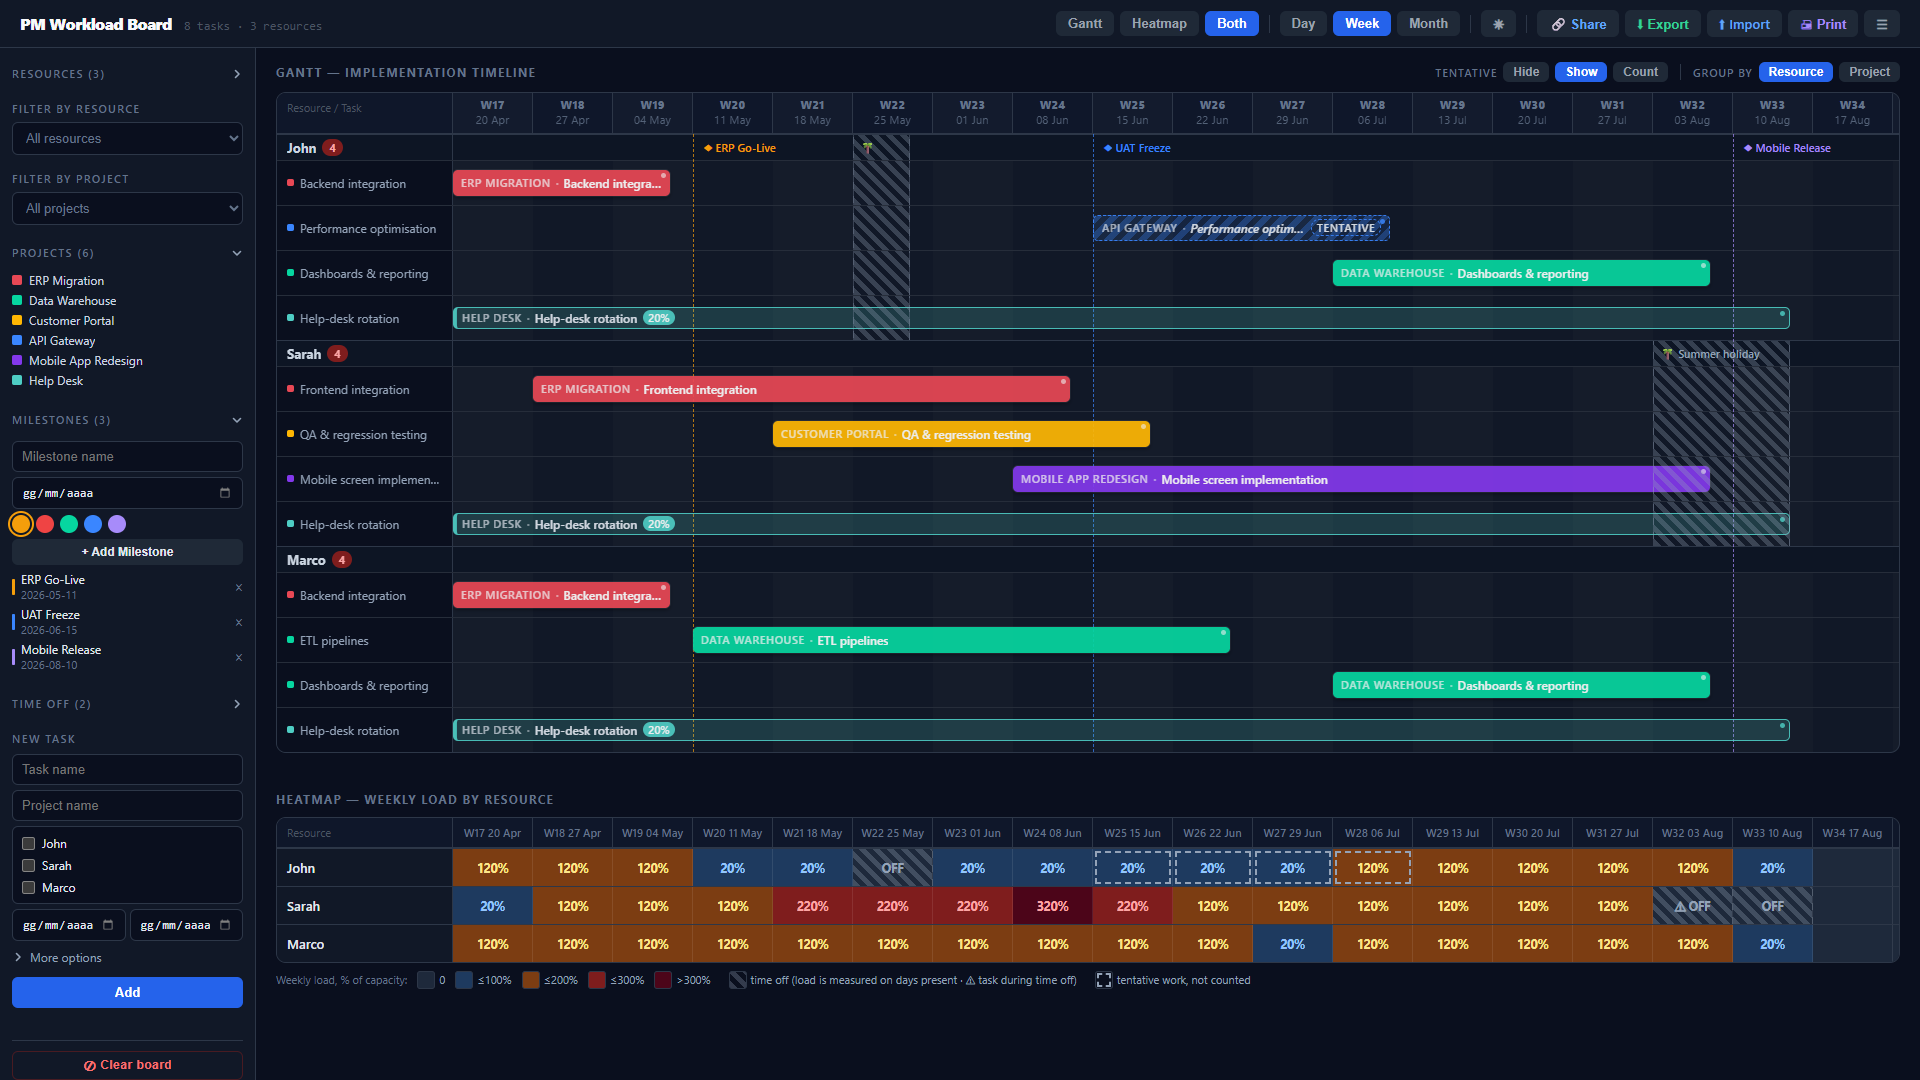
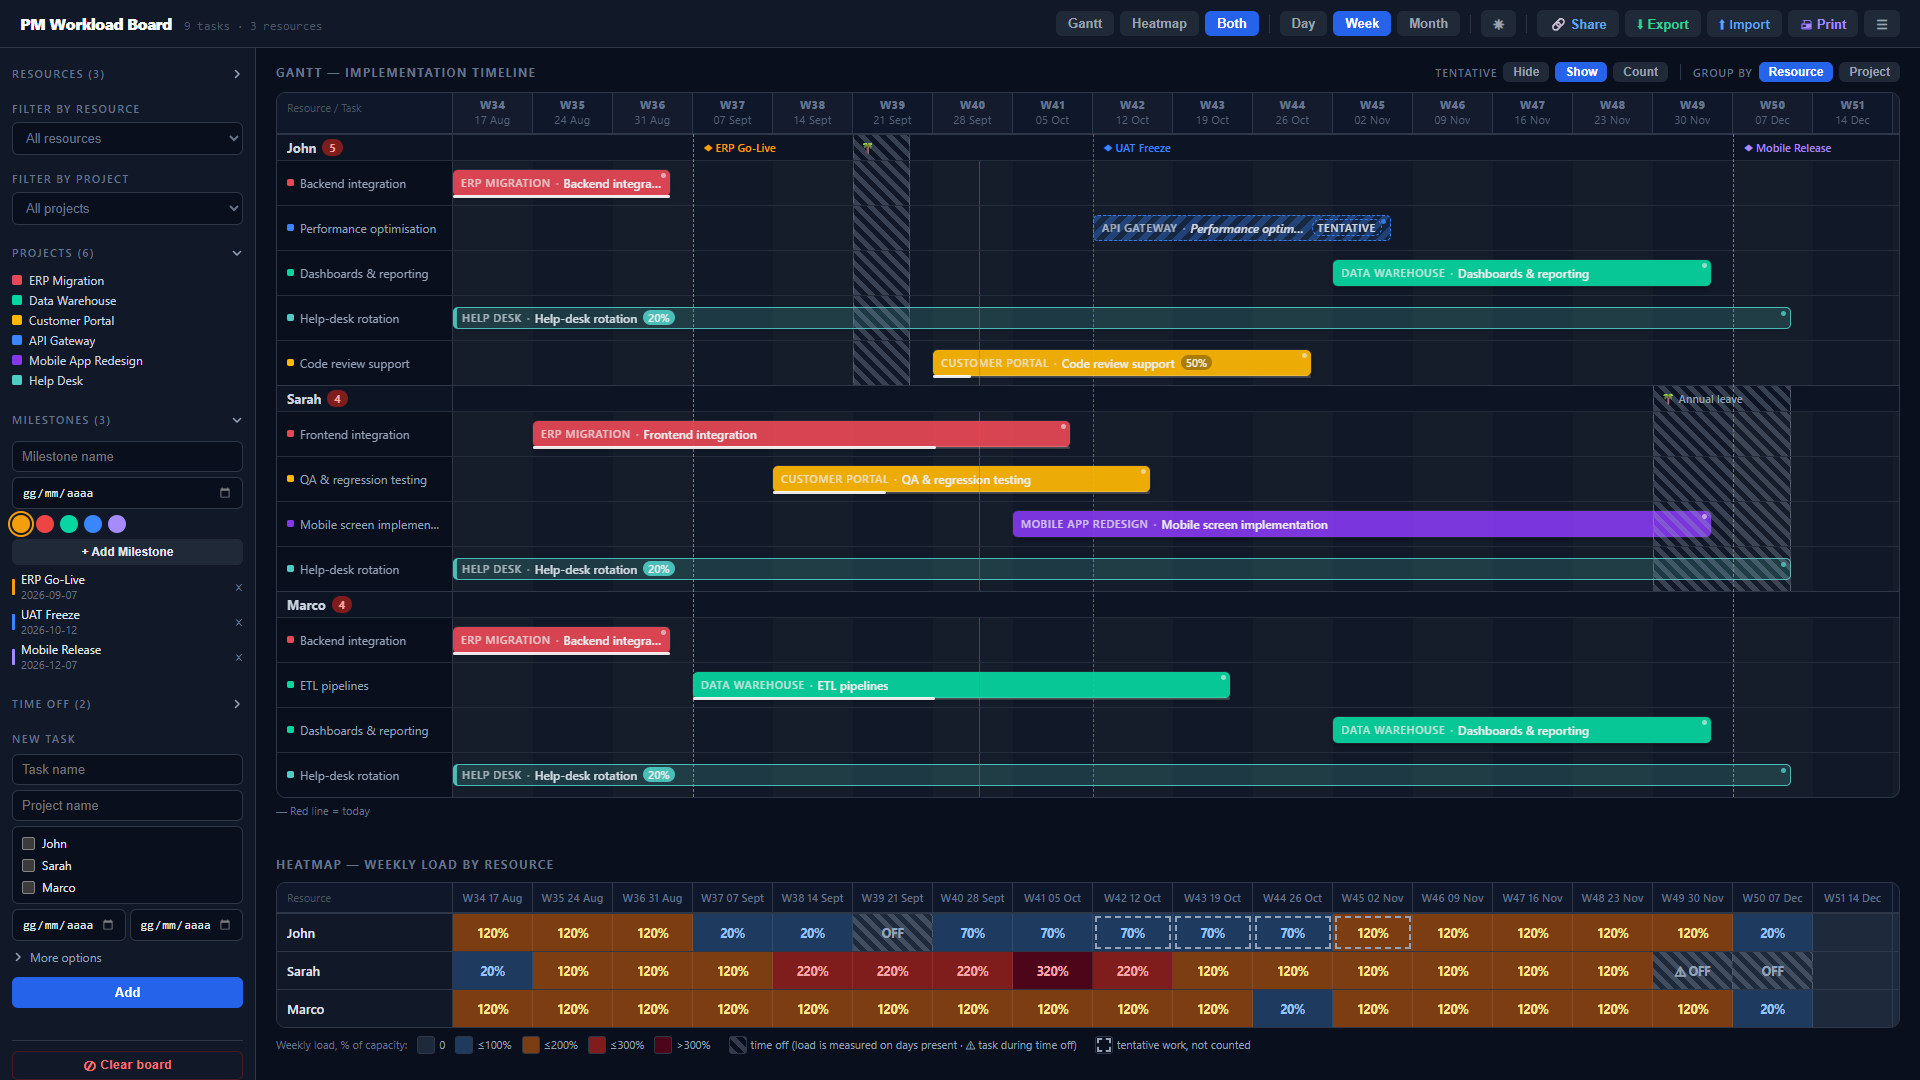
Make sample data land around today and showcase recent features
The scenario was pinned to Apr-Aug 2026, so it now loaded entirely in
the past with no today line. buildSampleData() shifts tasks, milestones
and time off by whole weeks so the scenario's 'today' (week 7) is the
current week; weekdays, overlaps and clashes stay identical.

Adds a 50 % 'Code review support' task (John drops to 70 % this week)
and completion values consistent with the scenario's today. Notes and
the 'Summer holiday' label no longer mention absolute dates or seasons.
preview.png regenerated.

diff --git a/pm-workload-board.html b/pm-workload-board.html
@@ -148,7 +148,11 @@
 
 const COLORS = ["#E84855","#3A86FF","#06D6A0","#FFB703","#8338EC","#FF6B35","#4ECDC4","#A78BFA","#F472B6","#34D399"];
 const MILESTONE_COLORS = ["#F59E0B","#EF4444","#06D6A0","#3A86FF","#A78BFA"];
-const SAMPLE_DATA = {"t":[{"id":"1700001001000","taskName":"Backend integration","projectName":"ERP Migration","resourceIds":["1700000001000","1700000003000"],"startDate":"2026-04-20","endDate":"2026-05-08","notes":"Blocked by missing DB credentials from client IT — follow up Thursday"},{"id":"1700001005000","taskName":"Frontend integration","projectName":"ERP Migration","resourceIds":["1700000002000"],"startDate":"2026-04-27","endDate":"2026-06-12","notes":"Coordinate with John — depends on backend endpoints being ready by 09 May"},{"id":"1700001008000","taskName":"ETL pipelines","projectName":"Data Warehouse","resourceIds":["1700000003000"],"startDate":"2026-05-11","endDate":"2026-06-26","notes":"Waiting for data modeling sign-off before starting. Source system access TBC."},{"id":"1700001011000","taskName":"QA & regression testing","projectName":"Customer Portal","resourceIds":["1700000002000"],"startDate":"2026-05-18","endDate":"2026-06-19","notes":"Test plan ready. Needs staging environment — chasing Marco for deployment."},{"id":"1700001013000","taskName":"Performance optimisation","projectName":"API Gateway","resourceIds":["1700000001000"],"startDate":"2026-06-15","endDate":"2026-07-10","notes":"Target p99 latency < 80ms. Profile with k6 first, then tune connection pooling.","tentative":true},{"id":"1700001014000","taskName":"Mobile screen implementation","projectName":"Mobile App Redesign","resourceIds":["1700000002000"],"startDate":"2026-06-08","endDate":"2026-08-07","notes":"React Native build. Polish pass and handoff QA to follow before release."},{"id":"1700001015000","taskName":"Dashboards & reporting","projectName":"Data Warehouse","resourceIds":["1700000003000","1700000001000"],"startDate":"2026-07-06","endDate":"2026-08-07","notes":"BI layer on top of ETL output. Stakeholder review scheduled mid-July."},{"id":"1700001016000","taskName":"Help-desk rotation","projectName":"Help Desk","resourceIds":["1700000001000","1700000002000","1700000003000"],"startDate":"2026-04-20","endDate":"2026-08-14","allocation":20,"notes":"Permanent support duty — about one day a week each."}],"r":[{"id":"1700000001000","name":"John"},{"id":"1700000002000","name":"Sarah"},{"id":"1700000003000","name":"Marco"}],"m":[{"id":"1700002001000","name":"ERP Go-Live","date":"2026-05-11","color":"#F59E0B"},{"id":"1700002002000","name":"UAT Freeze","date":"2026-06-15","color":"#3A86FF"},{"id":"1700002003000","name":"Mobile Release","date":"2026-08-10","color":"#A78BFA"}],"c":{"ERP Migration":"#E84855","API Gateway":"#3A86FF","Data Warehouse":"#06D6A0","Customer Portal":"#FFB703","Mobile App Redesign":"#8338EC","Help Desk":"#4ECDC4"},"o":[{"id":"1700003001000","resourceId":"1700000002000","startDate":"2026-08-03","endDate":"2026-08-14","label":"Summer holiday"},{"id":"1700003002000","resourceId":"1700000001000","startDate":"2026-05-25","endDate":"2026-05-29","label":"Holiday"}]};
+const SAMPLE_DATA = {"t":[{"id":"1700001001000","taskName":"Backend integration","projectName":"ERP Migration","resourceIds":["1700000001000","1700000003000"],"startDate":"2026-04-20","endDate":"2026-05-08","notes":"Delivered. DB credentials from client IT arrived late — keep an eye on access renewals.","completion":100},{"id":"1700001005000","taskName":"Frontend integration","projectName":"ERP Migration","resourceIds":["1700000002000"],"startDate":"2026-04-27","endDate":"2026-06-12","notes":"Coordinate with John — depends on backend endpoints being ready first.","completion":75},{"id":"1700001008000","taskName":"ETL pipelines","projectName":"Data Warehouse","resourceIds":["1700000003000"],"startDate":"2026-05-11","endDate":"2026-06-26","notes":"Data modeling signed off. Source system access still TBC for two feeds.","completion":45},{"id":"1700001011000","taskName":"QA & regression testing","projectName":"Customer Portal","resourceIds":["1700000002000"],"startDate":"2026-05-18","endDate":"2026-06-19","notes":"Test plan ready. Needs staging environment — chasing Marco for deployment.","completion":30},{"id":"1700001013000","taskName":"Performance optimisation","projectName":"API Gateway","resourceIds":["1700000001000"],"startDate":"2026-06-15","endDate":"2026-07-10","notes":"Target p99 latency < 80ms. Profile with k6 first, then tune connection pooling.","tentative":true},{"id":"1700001014000","taskName":"Mobile screen implementation","projectName":"Mobile App Redesign","resourceIds":["1700000002000"],"startDate":"2026-06-08","endDate":"2026-08-07","notes":"React Native build. Polish pass and handoff QA to follow before release."},{"id":"1700001015000","taskName":"Dashboards & reporting","projectName":"Data Warehouse","resourceIds":["1700000003000","1700000001000"],"startDate":"2026-07-06","endDate":"2026-08-07","notes":"BI layer on top of ETL output. Stakeholder review at the halfway point."},{"id":"1700001016000","taskName":"Help-desk rotation","projectName":"Help Desk","resourceIds":["1700000001000","1700000002000","1700000003000"],"startDate":"2026-04-20","endDate":"2026-08-14","allocation":20,"notes":"Permanent support duty — about one day a week each."},{"id":"1700001017000","taskName":"Code review support","projectName":"Customer Portal","resourceIds":["1700000001000"],"startDate":"2026-06-01","endDate":"2026-07-03","allocation":50,"completion":10,"notes":"Half-time reviews for the portal team while QA runs."}],"r":[{"id":"1700000001000","name":"John"},{"id":"1700000002000","name":"Sarah"},{"id":"1700000003000","name":"Marco"}],"m":[{"id":"1700002001000","name":"ERP Go-Live","date":"2026-05-11","color":"#F59E0B"},{"id":"1700002002000","name":"UAT Freeze","date":"2026-06-15","color":"#3A86FF"},{"id":"1700002003000","name":"Mobile Release","date":"2026-08-10","color":"#A78BFA"}],"c":{"ERP Migration":"#E84855","API Gateway":"#3A86FF","Data Warehouse":"#06D6A0","Customer Portal":"#FFB703","Mobile App Redesign":"#8338EC","Help Desk":"#4ECDC4"},"o":[{"id":"1700003001000","resourceId":"1700000002000","startDate":"2026-08-03","endDate":"2026-08-14","label":"Annual leave"},{"id":"1700003002000","resourceId":"1700000001000","startDate":"2026-05-25","endDate":"2026-05-29","label":"Holiday"}]};
+// The sample scenario is authored on a fixed calendar whose "today" is week 7 (Mon 2026-06-01).
+// buildSampleData() shifts it by whole weeks so today's line always lands in the same spot.
+const SAMPLE_ANCHOR = "2026-04-20";   // Monday of the scenario's first week
+const SAMPLE_TODAY_WEEK = 6;          // weeks between the anchor and the scenario's "today"
 const STORAGE_KEY = "pm-gantt-v2";
 const THEME_KEY   = "pm-gantt-theme";
 const GRAN_KEY    = "pm-gantt-gran";
@@ -200,6 +204,18 @@ function normalizeTasks(rawTasks) {
     ...t,
     resourceIds: t.resourceIds || (resourceId ? [resourceId] : []),
   }));
+}
+
+function buildSampleData(today = new Date()) {
+  const target = addDays(startOfMonday(today), -7 * SAMPLE_TODAY_WEEK);
+  const shift = Math.round((target - parseDate(SAMPLE_ANCHOR)) / 86400000);   // whole weeks → weekdays preserved
+  const mv = d => fmtDate(addDays(parseDate(d), shift));
+  return {
+    ...SAMPLE_DATA,
+    t: SAMPLE_DATA.t.map(t => ({ ...t, startDate: mv(t.startDate), endDate: mv(t.endDate) })),
+    m: SAMPLE_DATA.m.map(m => ({ ...m, date: mv(m.date) })),
+    o: SAMPLE_DATA.o.map(o => ({ ...o, startDate: mv(o.startDate), endDate: mv(o.endDate) })),
+  };
 }
 
 // ── URL share encoding (UTF-8 safe base64-url) ────────────────────────────
@@ -614,12 +630,13 @@ function App() {
 
   const loadSampleData = () => {
     if (tasks.length > 0 && !window.confirm("This will replace your current data. Continue?")) return;
-    setTasks(normalizeTasks(SAMPLE_DATA.t));
-    setResources(SAMPLE_DATA.r);
-    setPColors(SAMPLE_DATA.c);
-    setMilestones(SAMPLE_DATA.m);
-    setTimeOff(SAMPLE_DATA.o);
-    persist(SAMPLE_DATA.t, SAMPLE_DATA.r, SAMPLE_DATA.c, SAMPLE_DATA.m, SAMPLE_DATA.o);
+    const d = buildSampleData();
+    setTasks(normalizeTasks(d.t));
+    setResources(d.r);
+    setPColors(d.c);
+    setMilestones(d.m);
+    setTimeOff(d.o);
+    persist(d.t, d.r, d.c, d.m, d.o);
   };
 
   // ── keyboard shortcuts ────────────────────────────────────────────────────

diff --git a/README.md b/README.md
@@ -47,7 +47,7 @@ The heatmap is never filled in manually. Red means red because the bars say so.
 | **Print / PDF export** | Browser print dialog, landscape layout, sidebar hidden, colours preserved |
 | **Synchronized horizontal scroll** | Both views scroll in sync when tasks span many weeks; resource column stays fixed, section titles and week headers stay pinned while scrolling down |
 | **Keyboard shortcuts** | Enter to submit task form, Esc to cancel |
-| **Sample data** | One-click load of a realistic 18-week scenario — instant onboarding |
+| **Sample data** | One-click load of a realistic scenario that always lands around today — shows effort %, a tentative task, time off clashes, completion and milestones |
 
 ---
 
@@ -107,6 +107,7 @@ The implementation was handled entirely by **[Claude Code](https://claude.ai)** 
 - [x] Gantt bar tooltip — enriched with duration and completion %
 - [x] Sample data button — inline in empty state, confirmation dialog if data exists
 - [x] Keyboard shortcuts — Enter to submit, Esc to cancel
+- [x] Sample data relative to today — today's line always mid-board; adds a 50 % task and completion values
 - [x] Discreet milestones — 1px dashed line drawn under bars, label stays readable
 - [x] SVG chevron on every collapsible section — rotates right → down, theme colour
 - [x] Projects section collapsible like the others (open by default — it's the colour legend)

diff --git a/CLAUDE.md b/CLAUDE.md
@@ -39,6 +39,8 @@ Board data under key `pm-gantt-v2`:
 - Keep task creation light: only name, project, people, dates are visible; optional fields live under "More options" and new tasks inherit effort from the project's latest task.
 - Share links encode the board as base64url JSON in `#board=…`; the app then shows a non-saving preview with "Import to my board".
 
+- Sample data: `SAMPLE_DATA` is authored on a fixed calendar (anchor Mon 2026-04-20, scenario "today" = week 7). `buildSampleData()` shifts everything by whole weeks so that week lands on the real current week; keep notes and labels free of absolute dates or seasons. Completion values assume the scenario's today.
+
 ## Bar visual language
 
 Solid bar = committed work; light tinted slimmer bar (`LIGHT_BELOW` 50 %) = background duty; diagonal stripes + dashed outline = tentative; grey hatch over the timeline = time off; thin dashed line under the bars = milestone (today is the only solid red line). Keep new states distinguishable from these.
